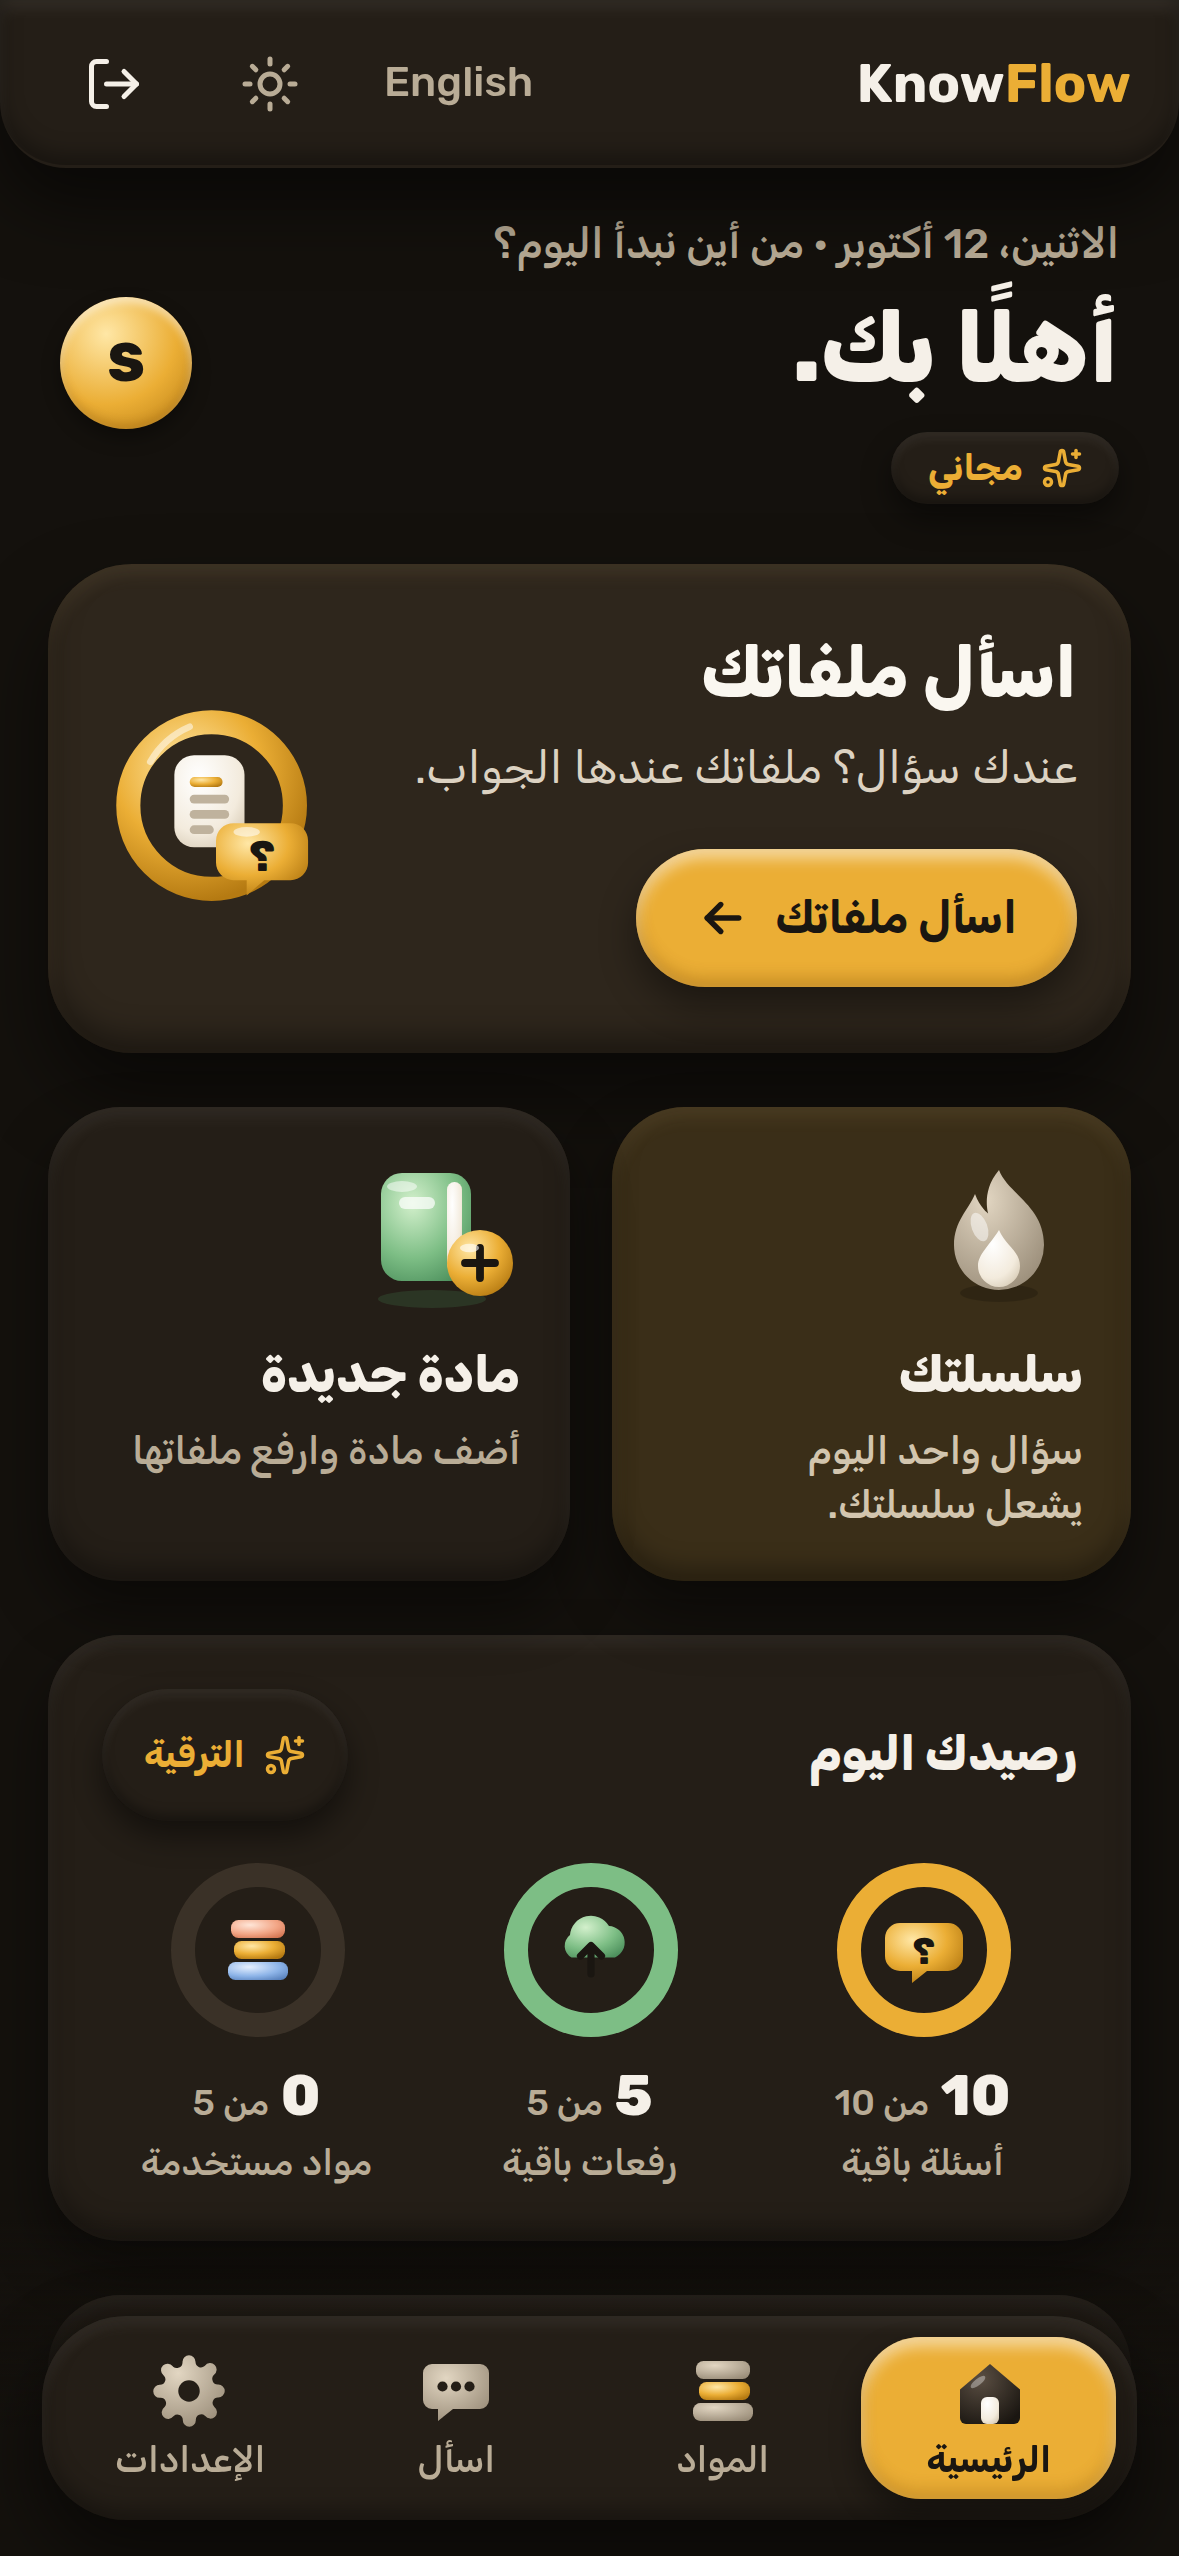
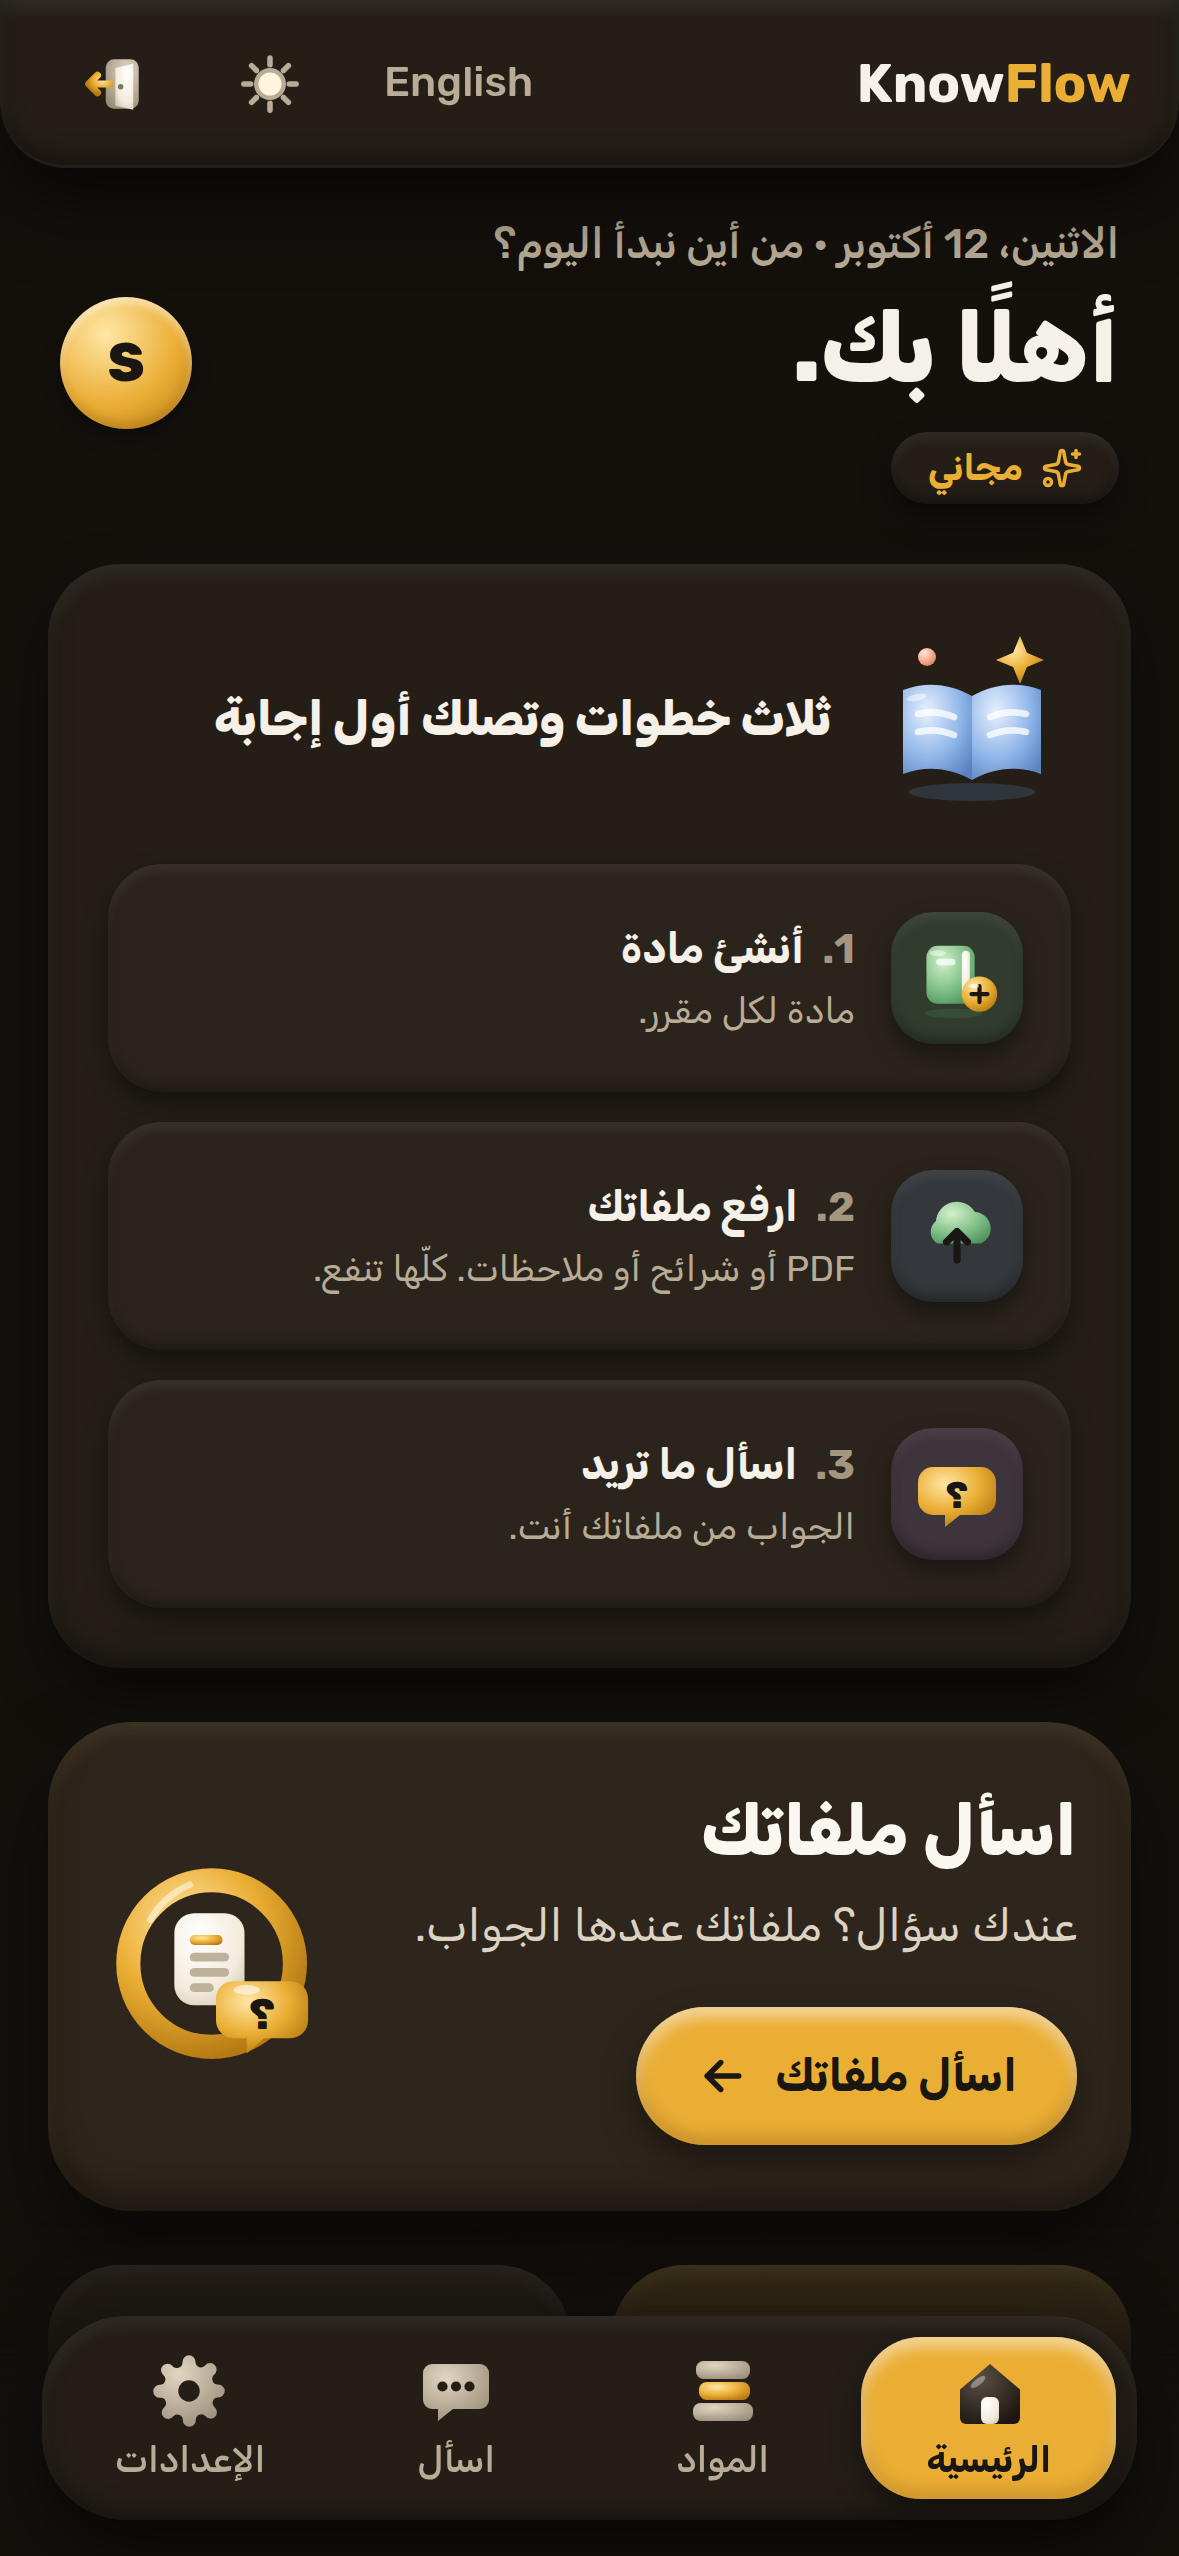
Activation 2: with no material, the three steps lead the home (#312)
* Activation 2: with no material, the three steps lead the home

The 2026-11-09 audit, cause #4: the one account that gave the AI
permission did it 39 s before it had a subject, from the Ask card at
the top of an empty home, and never reached a file. The three steps sat
at about 710 pt on an 844 pt screen.

- src/lib/home-order.ts homeStepsFirst: true while step 2 is not done
  (materials === 0, the rule buildOnboarding uses).
- StudentHome: steps card first under the greeting, Ask card next, the
  rest in place. With a material the home is unchanged: same elements,
  same classes, same markup.
- scripts/verify-activation-2.mjs in typecheck's tsc job.
- design-c: home-full-desk added; stepsViewCheck (steps title and the
  next step inside the first 390 x 844 view above the tab bar, read by
  structure so main is measured too) and stepsViewPlant (card pushed
  900 px down must be flagged).

* redesign-built: the empty home's reference images for activation fix 2

The empty-home preview now leads with the three steps (#312), so the
references that render it are replaced by redesign-built's own fresh
renders of 4efe81f (run 42724875505): the four *-home.png, the eight
redesign3 app-home-streak / web-topbar images, and the two home
side-by-sides regenerated with scripts/redesign-built/compare.py
(Pillow 12.2.0, as pinned). Nothing else is touched.

---------

diff --git a/src/components/dashboard/StudentHome.tsx b/src/components/dashboard/StudentHome.tsx
@@ -24,6 +24,7 @@ import {
 } from '@/components/clay/ClayIcons';
 import { RecentActivity, type ActivityItem, type RecentActivityLabels } from './RecentActivity';
 import { UserName } from '@/components/ui/UserName';
+import { homeStepsFirst } from '@/lib/home-order';
 
 interface StudentHomeStat {
   label: string;
@@ -202,6 +203,67 @@ export function StudentHome({
   const whatIcon = [<ClayFile key="f" />, <ClayQuiz key="q" />, <ClayAnswer key="a" mark={mark} />];
   const stepIcon = [<ClayNewSubject key="n" width={30} height={28} />, <ClayUploadGlyph key="u" />, <ClayQuestionGlyph key="q" mark={mark} />];
   const meterTone = ['accent', 'green'] as const;
+  // Activation fix 2 (`@/lib/home-order`): no material yet, so the steps card
+  // leads and the Ask card follows. Only the order and each card's rise step
+  // change; every element, class and line is otherwise the one rendered
+  // below, so a home with a material renders exactly as before.
+  const stepsFirst = homeStepsFirst(onboarding);
+
+  // ── Ask: the dark card, the gold pill, the gold ring and bubble. ──
+  const askCard = (
+    <Link
+      href={askHref}
+      className={`kf-ask pressable rise ${stepsFirst ? 'rise-2' : 'rise-1'} group flex items-center gap-2 rounded-[1.75rem] px-[1.125rem] py-[1.375rem]`}
+    >
+      {/* The text has the width (the owner's review, 2026-11-04: the English
+          title broke after "Ask your", the Arabic line left "الجواب." alone):
+          a 76 pt picture and an 8 pt gap, and both lines balanced. The
+          design-c render asserts no line of one word. */}
+      <div className="min-w-0 flex-1">
+        <p data-kf-ask-title className="text-[1.4375rem] font-extrabold leading-tight [text-wrap:balance]">{labels.askTitle}</p>
+        <p data-kf-ask-desc className="mt-1.5 text-[0.9375rem] leading-normal text-[color:var(--clay-ask-muted)] [text-wrap:balance]">{labels.askDesc}</p>
+        <span className="kf-gold mt-4 inline-flex min-h-[2.875rem] items-center gap-2 whitespace-nowrap rounded-full px-5 text-[0.9375rem] font-bold">
+          {labels.askTitle}
+          <ClayArrow className="rtl:-scale-x-100" />
+        </span>
+      </div>
+      <ClayAskArt mark={mark} width={76} height={76} className="shrink-0" />
+    </Link>
+  );
+
+  // ── The path: present at zero, gone once all three are done. ──
+  const pathCard = stepsLeft > 0 && (
+    <section className={`kf-card rise ${stepsFirst ? 'rise-1' : 'rise-3'} p-5`}>
+      <div className="flex items-center gap-4">
+        <ClaySparkBook className="shrink-0" />
+        <h2 className="min-w-0 text-base font-extrabold text-foreground">{labels.startTitle}</h2>
+      </div>
+      <ol className="mt-4 grid grid-cols-1 gap-2.5 sm:grid-cols-3">
+        {onboarding.map((step, i) => {
+          const tile = ['bg-mint-subtle', 'bg-sky-subtle', 'bg-violet-subtle'][i] ?? 'bg-accent-subtle';
+          return (
+            <li key={step.key}>
+              <Link
+                href={step.href}
+                className="kf-tile pressable liftable group flex h-full items-center gap-3 p-4 sm:flex-col sm:items-start"
+              >
+                <span className={`kf-chip inline-flex h-11 w-11 shrink-0 items-center justify-center rounded-xl ${step.done ? 'bg-accent-subtle' : tile}`}>
+                  {step.done ? <ClayCheck /> : stepIcon[i]}
+                </span>
+                <span className="min-w-0 flex-1">
+                  <span className="block text-sm font-bold text-foreground">
+                    <span className="me-1.5 text-faint">{i + 1}.</span>
+                    {step.title}
+                  </span>
+                  <span className="mt-0.5 block text-xs text-muted-foreground">{step.desc}</span>
+                </span>
+              </Link>
+            </li>
+          );
+        })}
+      </ol>
+    </section>
+  );
 
   return (
     <div>
@@ -252,25 +314,9 @@ export function StudentHome({
           )}
         </header>
 
-        {/* ── Ask: the dark card, the gold pill, the gold ring and bubble. ── */}
-        <Link
-          href={askHref}
-          className="kf-ask pressable rise rise-1 group flex items-center gap-2 rounded-[1.75rem] px-[1.125rem] py-[1.375rem]"
-        >
-          {/* The text has the width (the owner's review, 2026-11-04: the English
-              title broke after "Ask your", the Arabic line left "الجواب." alone):
-              a 76 pt picture and an 8 pt gap, and both lines balanced. The
-              design-c render asserts no line of one word. */}
-          <div className="min-w-0 flex-1">
-            <p data-kf-ask-title className="text-[1.4375rem] font-extrabold leading-tight [text-wrap:balance]">{labels.askTitle}</p>
-            <p data-kf-ask-desc className="mt-1.5 text-[0.9375rem] leading-normal text-[color:var(--clay-ask-muted)] [text-wrap:balance]">{labels.askDesc}</p>
-            <span className="kf-gold mt-4 inline-flex min-h-[2.875rem] items-center gap-2 whitespace-nowrap rounded-full px-5 text-[0.9375rem] font-bold">
-              {labels.askTitle}
-              <ClayArrow className="rtl:-scale-x-100" />
-            </span>
-          </div>
-          <ClayAskArt mark={mark} width={76} height={76} className="shrink-0" />
-        </Link>
+        {/* ── Activation fix 2: with no material yet, the three steps come
+            first and the Ask card follows them (`homeStepsFirst`). ── */}
+        {stepsFirst ? <>{pathCard}{askCard}</> : askCard}
 
         {/* ── The two-up row: ONE structure for both cards (the owner's review,
             2026-11-04): the same padding, a 56 x 52 icon box, a title row 26 pt
@@ -374,39 +420,9 @@ export function StudentHome({
           </section>
         )}
 
-        {/* ── The path: present at zero, gone once all three are done. ── */}
-        {stepsLeft > 0 && (
-          <section className="kf-card rise rise-3 p-5">
-            <div className="flex items-center gap-4">
-              <ClaySparkBook className="shrink-0" />
-              <h2 className="min-w-0 text-base font-extrabold text-foreground">{labels.startTitle}</h2>
-            </div>
-            <ol className="mt-4 grid grid-cols-1 gap-2.5 sm:grid-cols-3">
-              {onboarding.map((step, i) => {
-                const tile = ['bg-mint-subtle', 'bg-sky-subtle', 'bg-violet-subtle'][i] ?? 'bg-accent-subtle';
-                return (
-                  <li key={step.key}>
-                    <Link
-                      href={step.href}
-                      className="kf-tile pressable liftable group flex h-full items-center gap-3 p-4 sm:flex-col sm:items-start"
-                    >
-                      <span className={`kf-chip inline-flex h-11 w-11 shrink-0 items-center justify-center rounded-xl ${step.done ? 'bg-accent-subtle' : tile}`}>
-                        {step.done ? <ClayCheck /> : stepIcon[i]}
-                      </span>
-                      <span className="min-w-0 flex-1">
-                        <span className="block text-sm font-bold text-foreground">
-                          <span className="me-1.5 text-faint">{i + 1}.</span>
-                          {step.title}
-                        </span>
-                        <span className="mt-0.5 block text-xs text-muted-foreground">{step.desc}</span>
-                      </span>
-                    </Link>
-                  </li>
-                );
-              })}
-            </ol>
-          </section>
-        )}
+        {/* ── The path: present at zero, gone once all three are done. Here
+            once a material exists; at the top before that (above). ── */}
+        {!stepsFirst && pathCard}
 
         {/* ── The subjects: a header with two links, then clay rows. ── */}
         <section className="rise rise-4 space-y-3">

diff --git a/src/lib/home-order.ts b/src/lib/home-order.ts
@@ -1,0 +1,18 @@
+/**
+ * THE HOME'S CARD ORDER (activation fix 2, the 2026-11-09 audit, cause #4).
+ *
+ * The one account that gave the AI permission did it 39 seconds before it had
+ * any subject: it acted on the Ask card at the top of an empty home, had
+ * nothing to ask about, and never reached a file. The "Three steps to your
+ * first answer" card sat near the bottom of the first screen.
+ *
+ * So while the student has NO material, the steps card is the first card
+ * under the greeting and the Ask card follows it. "No material" is exactly
+ * the rule step 2 ("upload") uses for done (`materials > 0`, `buildOnboarding`
+ * in `@/lib/home-props`), read from that step so the two can never disagree.
+ * From the first material on, the home keeps its order. With no steps at all
+ * (a caller that passes none), nothing moves.
+ */
+export function homeStepsFirst(onboarding: readonly { key: string; done: boolean }[]): boolean {
+  return onboarding.some((s) => s.key === 'upload' && !s.done)
+}
